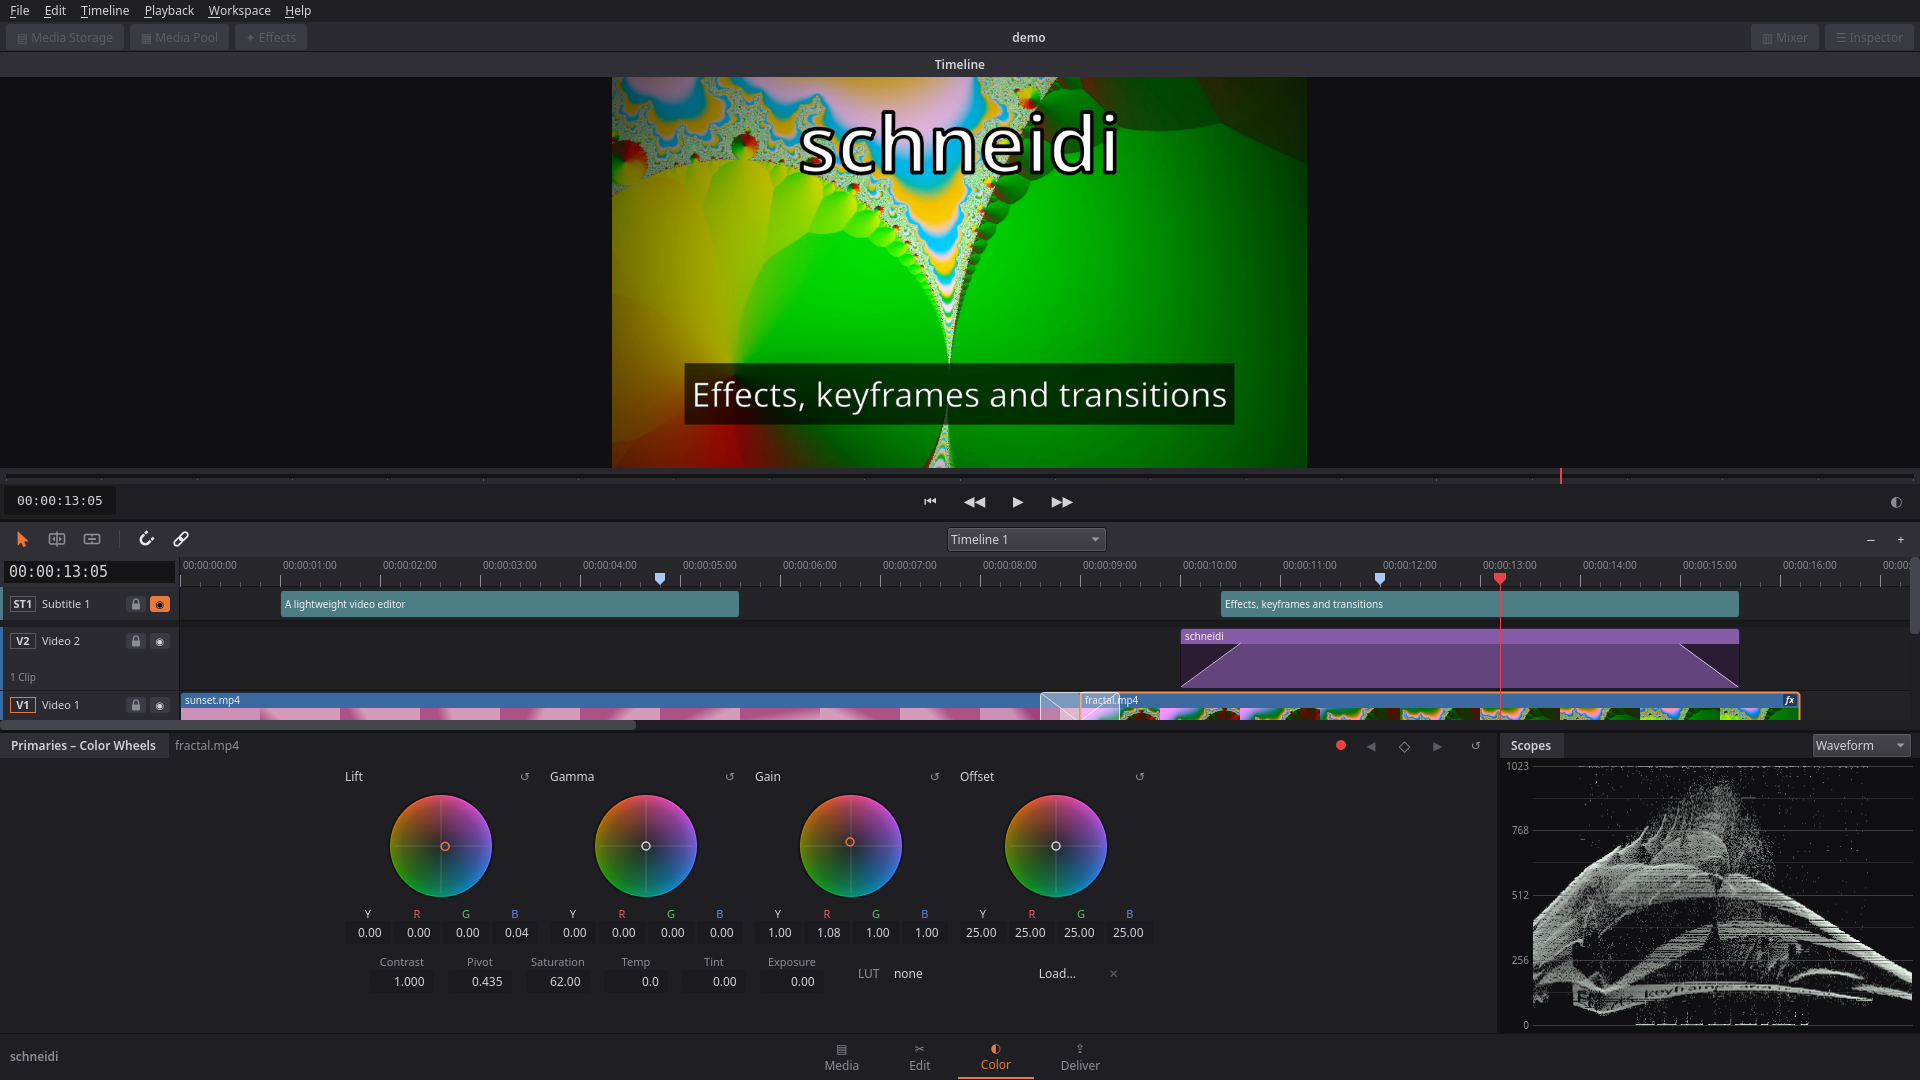
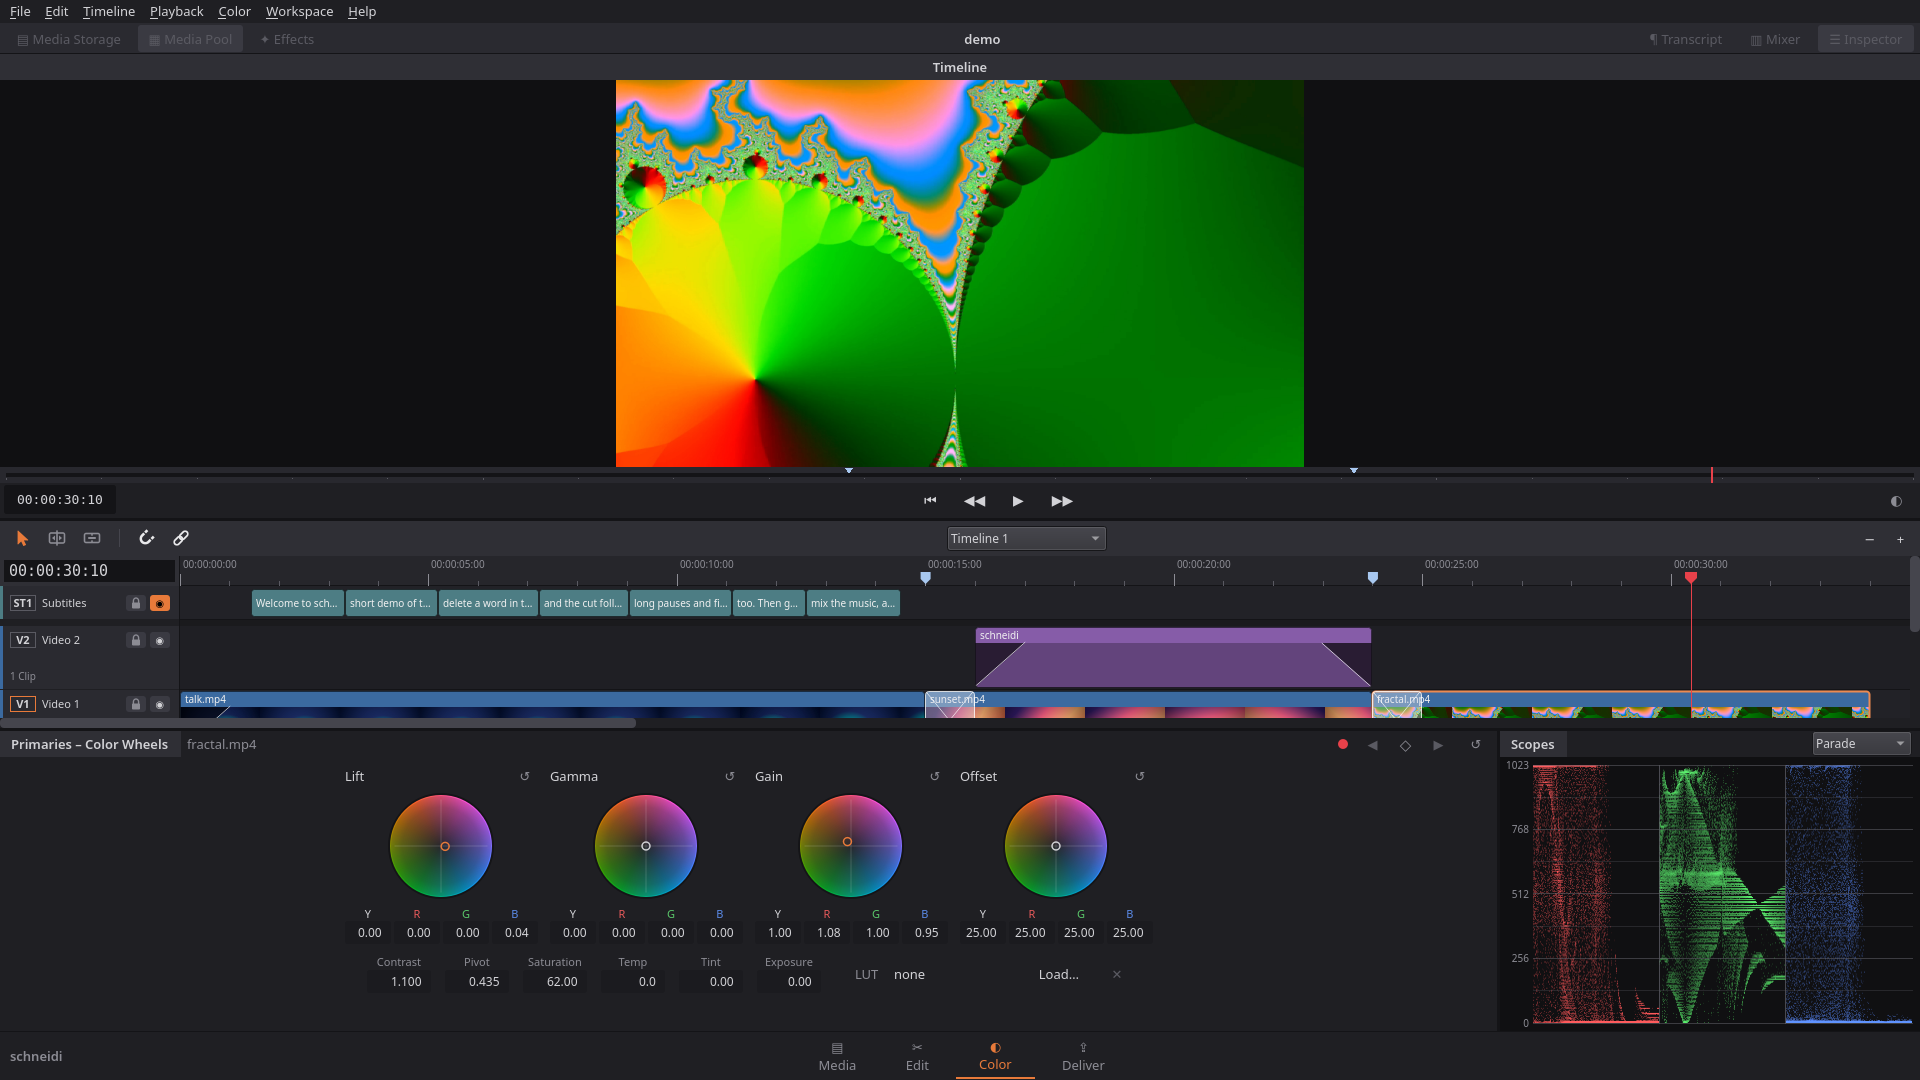
README: why schneidi, screenshots of all four pages, Windows note
New Edit (live AI connection, transcript) and Color (parade) shots,
first shots of the Media and Deliver pages; bug template asks for 0.8.1.

diff --git a/README.md b/README.md
@@ -1,20 +1,32 @@
 # schneidi
 
-A lightweight video editor with Media, Edit, Color and Deliver pages. Its workflow is inspired by DaVinci Resolve, with far fewer features. The UI is available in English, German, Spanish, French, Polish and Russian.
+**A DaVinci-style video editor that an AI assistant can edit with you – live, in the project you have open.**
 
-A DaVinci-style workflow without DaVinci's hurdles: runs on modest hardware and opens H.264/H.265/AAC footage on Linux.
+schneidi has Media, Edit, Color and Deliver pages like DaVinci Resolve, with far fewer features. It runs on modest hardware and opens H.264/H.265 video with AAC sound on Linux, which the free DaVinci Resolve does not. The UI is available in English, German, Spanish, French, Polish and Russian.
 
 [![Download](https://img.shields.io/github/v/release/OnkelTheorie/schneidi?label=Download&color=2ea44f)](https://github.com/OnkelTheorie/schneidi/releases/latest)
 
-**[Download the latest release](https://github.com/OnkelTheorie/schneidi/releases/latest)** (Linux AppImage or Debian package). To build from source, see [Building](#building).
+**[Download the latest release](https://github.com/OnkelTheorie/schneidi/releases/latest)** (Linux AppImage or Debian package). Windows: no download yet – [build it yourself](#building); an installer is planned for 1.0.
 
 > Status: early development (0.x). The project file format may still change between versions.
 
+![Edit page while an AI assistant is connected: transcript, title inspector and timeline](screenshots/edit.png)
+
+## Why schneidi?
+
+- **Edit together with an AI.** schneidi comes with its own command line and [MCP server](#command-line-and-ai-editing-mcp). Claude or another assistant can find pauses, scene changes and loud moments, transcribe, cut, grade, mix and render. When the project is open in the app, each change lands there as one undo step while you watch ("AI connected") – review it, undo it or disconnect.
+- **DaVinci's workflow without its hurdles.** The same pages and terms (ripple, roll, slip, slide, compound clips) and many of the same shortcuts (`=`/`-` to copy grades, `1`–`9` to cut multicam angles), but light enough for an older laptop.
+- **Everything stays on your computer.** Speech recognition (whisper.cpp), text-based editing, sync by sound and rendering work offline – no account, no cloud, open source (GPL-3.0).
+- **Long recordings of one event.** Sync hours of recordings from several PCs or cameras by their sound and cut them in a multicam view that shows up to 16 angles at once.
+
+## Screenshots
+
 ![Editing in schneidi: clips into the timeline, ripple trim with two-up view, color wheels](screenshots/demo.gif)
 
-![Edit page](screenshots/edit.png)
-
-![Multicam view: nine angles of one event side by side – click an angle or press 1–9 to cut to it](screenshots/multicam.png)
+| | |
+|---|---|
+| [![Media page: Media Storage and Media Pool](screenshots/media.png)](screenshots/media.png)<br>**Media** – browse folders, import into the Media Pool | [![Color page: color wheels and RGB parade](screenshots/color.png)](screenshots/color.png)<br>**Color** – color wheels, LUTs, scopes |
+| [![Deliver page: render settings and render queue](screenshots/deliver.png)](screenshots/deliver.png)<br>**Deliver** – presets and render queue | [![Multicam view: nine angles of one event side by side](screenshots/multicam.png)](screenshots/multicam.png)<br>**Multicam** – click an angle or press 1–9 to cut to it |
 
 ## Features
 
@@ -38,13 +50,6 @@ A DaVinci-style workflow without DaVinci's hurdles: runs on modest hardware and 
 - Text-based editing: the Transcript panel shows what is said – delete words to cut them, remove pauses
 - **Command line and MCP server** (`schneidi-cli`): scripts or an AI assistant can edit almost everything the app can – find pauses, scene changes, loud moments and events in a part of the picture (kill feed, score), sync recordings by their sound, build multicam clips, transcribe, cut and trim, grade, animate, mix, duck music and normalize, measure loudness, look at frames (or a detail of them) and scopes, render ([details](#command-line-and-ai-editing-mcp))
 - Themes, six UI languages (English, German, Spanish, French, Polish, Russian)
-
-<details>
-<summary>Color page</summary>
-
-![Color page](screenshots/color.png)
-
-</details>
 
 ## Command line and AI editing (MCP)
 
